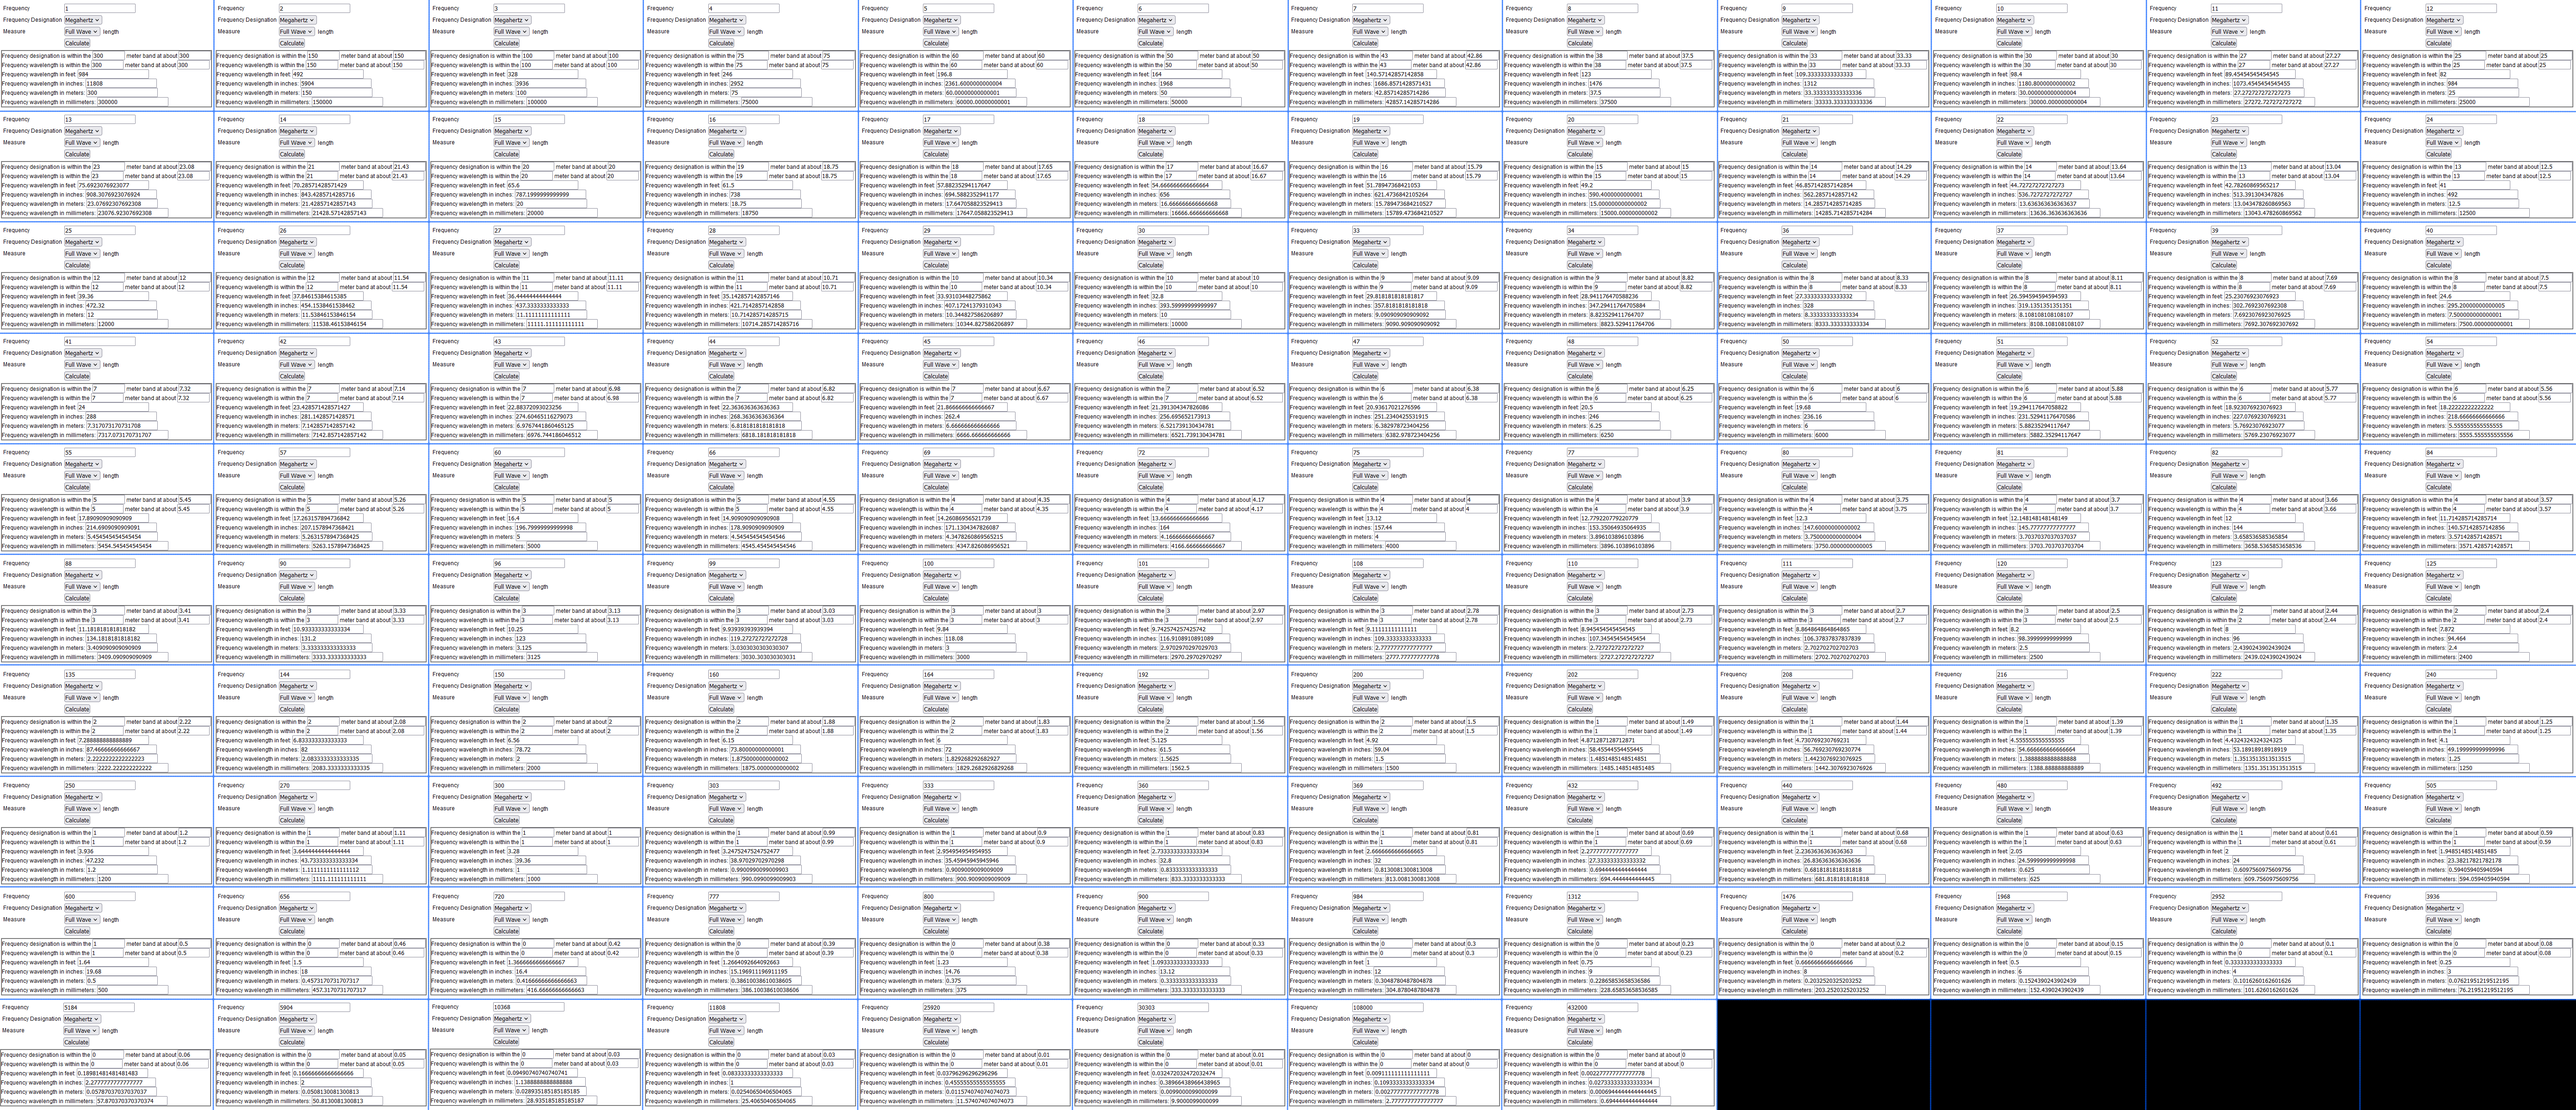
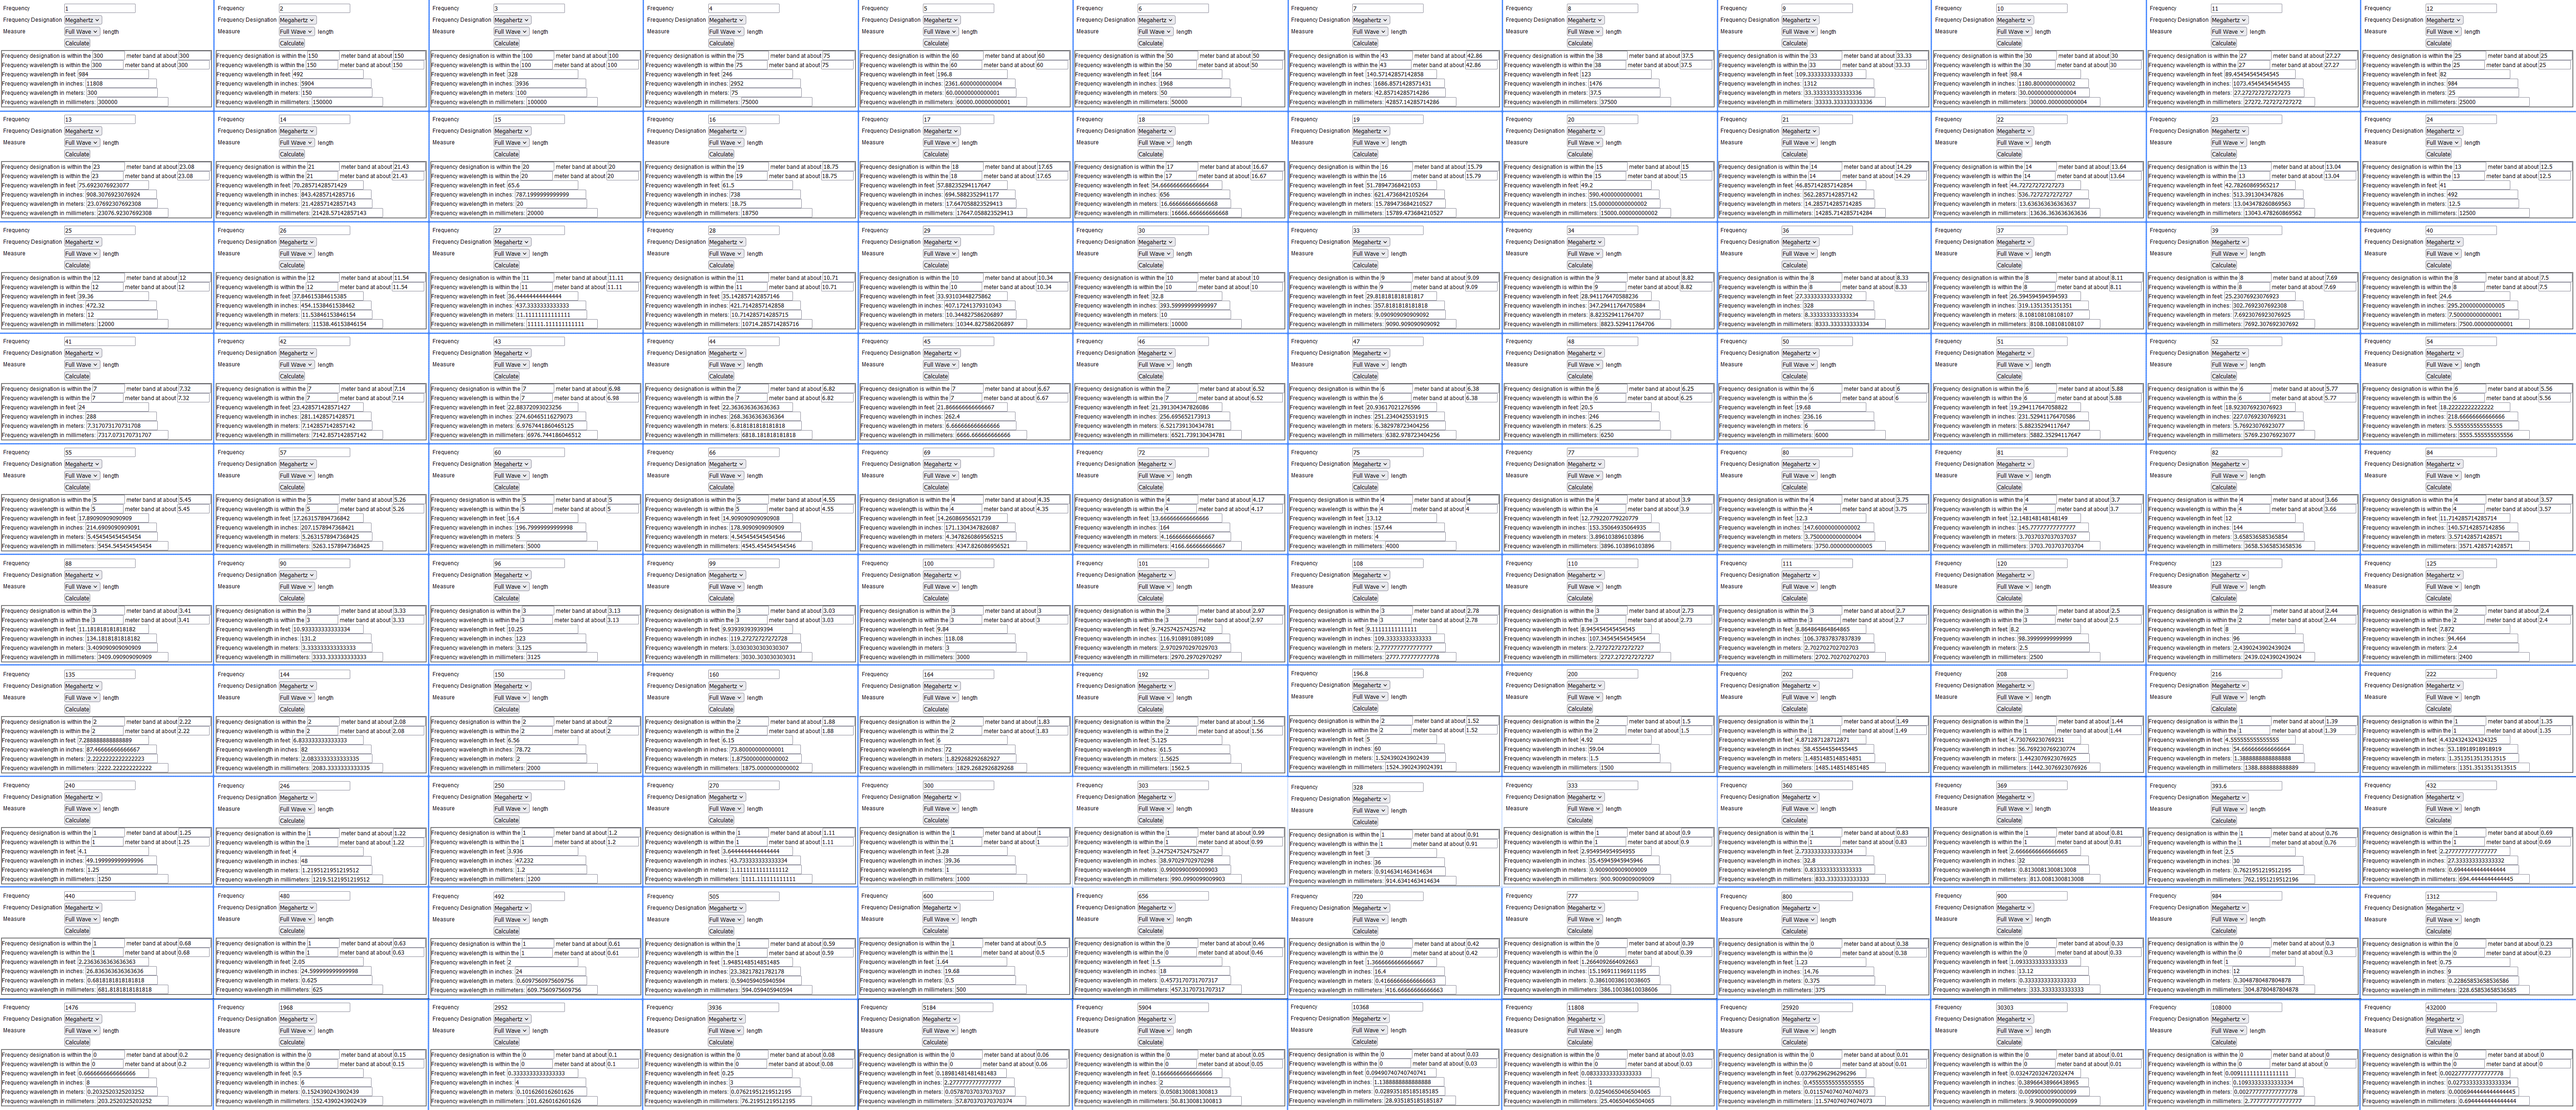
Version 1.05e Commit
Added border and updated number sheet image

diff --git a/references.html b/references.html
@@ -49,6 +49,35 @@
             <a href="https://youtu.be/1hJ-aMtdg7w?si=VC3fb7gtnHbmDznp" class="overlay-link">John Stuart Reid: CymaScope Imaging and Analysis of Cancer Cell - Water Conference 2018</a>
             <img src="img/johnstuartreid.png" alt="John Stuart Reid: CymaScope Imaging and Analysis of Cancer Cell - Water Conference 2018">
         </div>
+        <div class="grid-item">
+            <a href="https://youtu.be/IDgDWbQtlKI?si=nVfjM5F2E43F-NtY" class="overlay-link">Regreening the desert with John D. Liu | VPRO Documentary | 2012</a>
+            <img src="img/regreendesert.png" alt="Regreening the desert with John D. Liu | VPRO Documentary | 2012">
+        </div>
+
+        <div class="grid-item">
+            <a href="https://www.kymakipos.net/img/textureGnome01.png" class="overlay-link">Title</a>
+            <img src="img/image.png" alt="Empty">
+        </div>
+        <div class="grid-item">
+            <a href="https://www.kymakipos.net/img/textureGnome01.png" class="overlay-link">Title</a>
+            <img src="img/image.png" alt="Empty">
+        </div>
+        <div class="grid-item">
+            <a href="https://www.kymakipos.net/img/textureGnome01.png" class="overlay-link">Title</a>
+            <img src="img/image.png" alt="Empty">
+        </div>
+        <div class="grid-item">
+            <a href="https://www.kymakipos.net/img/textureGnome01.png" class="overlay-link">Title</a>
+            <img src="img/image.png" alt="Empty">
+        </div>
+        <div class="grid-item">
+            <a href="https://www.kymakipos.net/img/textureGnome01.png" class="overlay-link">Title</a>
+            <img src="img/image.png" alt="Empty">
+        </div>
+        <div class="grid-item">
+            <a href="https://www.kymakipos.net/img/textureGnome01.png" class="overlay-link">Title</a>
+            <img src="img/image.png" alt="Empty">
+        </div>
     </div>
     <script src="js/references.js"></script>
 </body>

diff --git a/css/references.css b/css/references.css
@@ -24,6 +24,7 @@ h2 {
     z-index: 2;
     cursor: pointer;
     margin-bottom: 6vh; 
+    border: 2px solid black;
 }
 .image-overlay.active + .numRefSheet {
     display: none;
